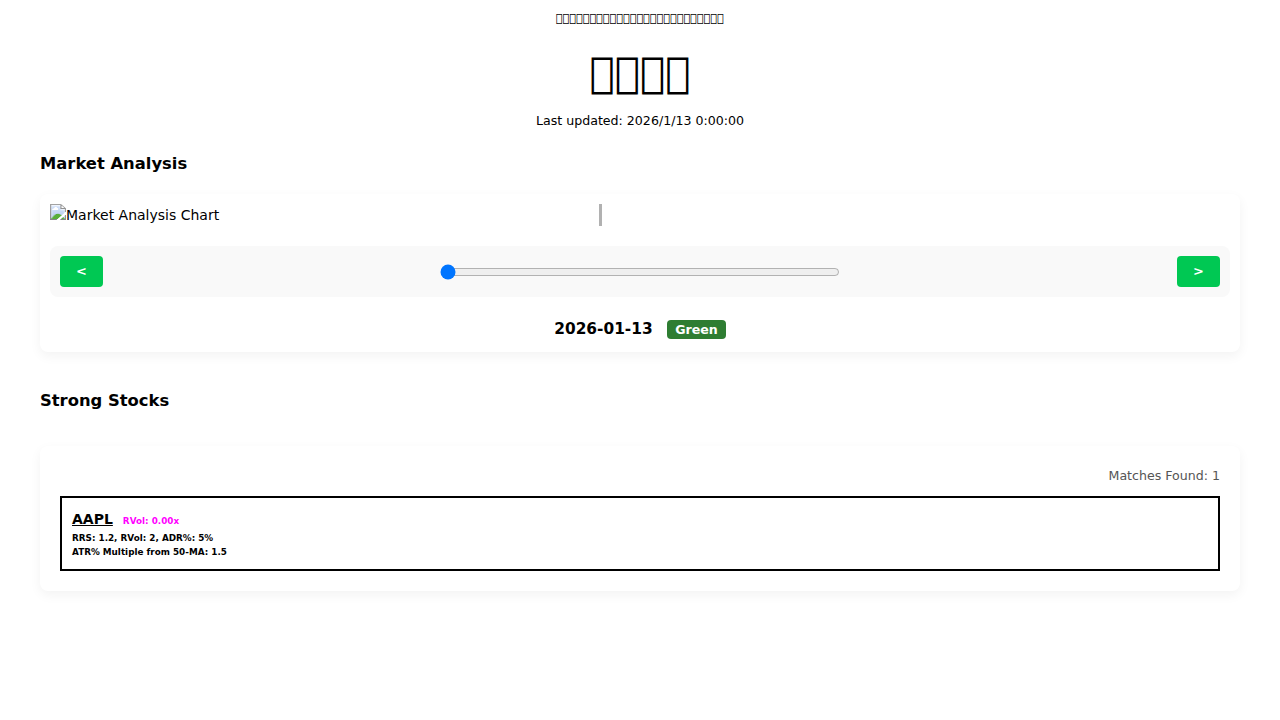
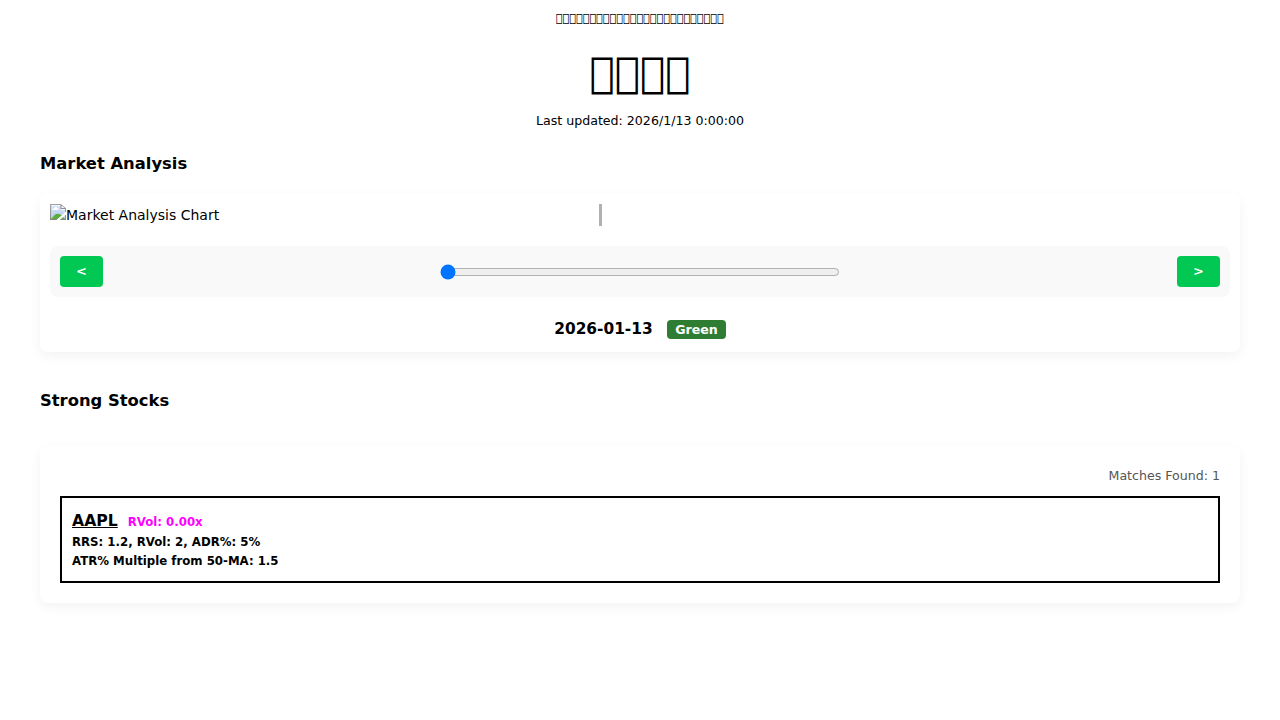
Update Strong Stocks font sizes
- Increased Ticker font size to 1.6em.
- Increased Indicators (RRS, RVol, ADR%) font size to 1.2em.
- Increased ATR% Multiple and Real-time RVol font size to 1.2em.

Changed region(s): [[0.0312, 0.7028, 0.2188, 0.7944]]

diff --git a/frontend/app.js b/frontend/app.js
@@ -594,24 +594,24 @@ document.addEventListener('DOMContentLoaded', () => {
             const line1 = document.createElement('div');
             const tickerSpan = document.createElement('span');
             tickerSpan.textContent = s.ticker;
-            tickerSpan.style.cssText = 'font-size: 1.43em; cursor: pointer; text-decoration: underline; color: #000;';
+            tickerSpan.style.cssText = 'font-size: 1.6em; cursor: pointer; text-decoration: underline; color: #000;';
             line1.appendChild(tickerSpan);
 
             // RealTime RVol (Magenta)
             const rvolSpan = document.createElement('span');
             rvolSpan.id = `rvol-${s.ticker}`;
-            rvolSpan.style.cssText = 'color: #FF00FF; margin-left: 10px; font-size: 0.9em;';
+            rvolSpan.style.cssText = 'color: #FF00FF; margin-left: 10px; font-size: 1.2em;';
             line1.appendChild(rvolSpan);
 
             // Indicators Line (Line 2)
             const line2 = document.createElement('div');
             line2.textContent = `RRS: ${s.rrs}, RVol: ${s.rvol}, ADR%: ${s.adr_pct}%`;
-            line2.style.fontSize = '0.9em';
+            line2.style.fontSize = '1.2em';
 
             // ATR% Multiple Line (Line 3)
             const line3 = document.createElement('div');
             line3.textContent = `ATR% Multiple from 50-MA: ${s.atr_multiple !== undefined ? s.atr_multiple : 'N/A'}`;
-            line3.style.fontSize = '0.9em';
+            line3.style.fontSize = '1.2em';
 
             item.appendChild(line1);
             item.appendChild(line2);
